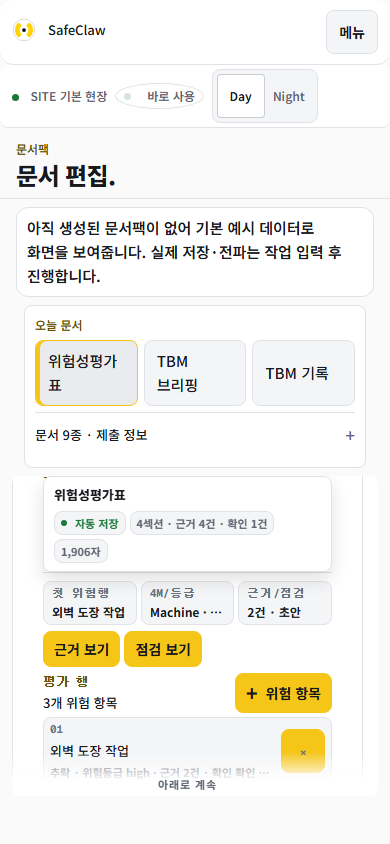
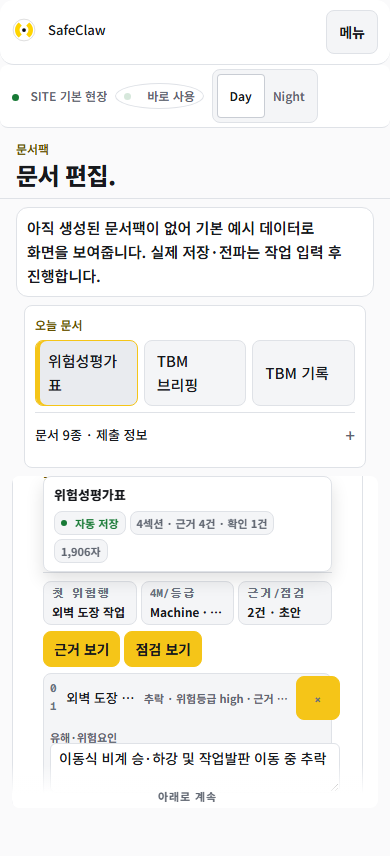
chore: refresh documents long-form ia evidence

diff --git a/evaluation/documents-long-form-ia-2026-07-22/report.md b/evaluation/documents-long-form-ia-2026-07-22/report.md
@@ -1,10 +1,10 @@
 # Documents Long-Form IA Probe
 
-Checked at: 2026-07-22T04:17:06.883Z
+Checked at: 2026-07-22T04:46:59.934Z
 
-Base URL: `http://127.0.0.1:3057`
+Base URL: `http://127.0.0.1:3063`
 
-Source HEAD: `6d46cfaac718d2d0a4a38478f9dc361e7b62ed84`
+Source HEAD: `8eb4474aa2bb0c583cf9c204507198f8dad8b5a7`
 
 Production commit: `unknown`
 
@@ -34,13 +34,13 @@ Allowed claim: selected risk-assessment cockpit and first field/action surfaces 
 | default overview/cockpit | desktop-1440x900 | RED | RED | RED | n/a | RED | PASS | 2.45 | 871 | 1128 | 1461 | 0 | false | 1651 | false | 0 |
 | same-document riskAssessmentDraft reselect landing | desktop-1440x900 | RED | RED | RED | RED | RED | PASS | 2.45 | 871 | 1128 | 1461 | 0 | false | 1651 | false | 0 |
 | all 12 document launcher exposure | desktop-1440x900 | PASS | n/a | n/a | n/a | RED | PASS | 2.45 | 833 | 1090 | 1423 | 0 | true | 1651 | false | 0 |
-| default overview/cockpit | mobile-390x844 | PARTIAL | PASS | RED | n/a | RED | PASS | 1 | 667 | 855 | 1092 | 0 | false | 1494 | false | 0 |
-| same-document riskAssessmentDraft reselect landing | mobile-390x844 | PARTIAL | PASS | RED | PASS | RED | PASS | 1 | 667 | 855 | 1092 | 0 | false | 1494 | false | 0 |
-| all 12 document launcher exposure | mobile-390x844 | RED | n/a | n/a | n/a | RED | PASS | 1 | 1028 | 1216 | 1453 | 0 | true | 1494 | false | 0 |
+| default overview/cockpit | mobile-390x844 | PARTIAL | PASS | PASS | n/a | RED | PASS | 1.01 | 667 | 793 | 1033 | 0 | false | 1435 | false | 0 |
+| same-document riskAssessmentDraft reselect landing | mobile-390x844 | PARTIAL | PASS | PASS | PASS | RED | PASS | 1.01 | 667 | 793 | 1033 | 0 | false | 1435 | false | 0 |
+| all 12 document launcher exposure | mobile-390x844 | RED | n/a | n/a | n/a | RED | PASS | 1.01 | 1028 | 1154 | 1394 | 0 | true | 1435 | false | 0 |
 
 ## Remaining UX Boundary
 
-- Product commit `6d46cfaa` is a scoped landing remediation: desktop-short same-document risk reselect now records first action, field-first, and reselect landing PASS. It does not close mobile full field-first visibility, desktop 1440x900 reselect, or all-12 document containment.
+- Product commit `8eb4474a` is a scoped risk-assessment cockpit remediation: desktop-short and mobile same-document risk reselect now record first action, field-first, and reselect landing PASS when the table above shows PASS. It does not close desktop 1440x900 layout behavior or all-12 document containment.
 - If `allDocumentLongFormVerdict` is RED or PARTIAL, product work should stay bounded to the documents route/component shell: master-detail, selected-only detail, accordion, local scroll, or drawer.
 - Supporting document launcher visibility is not itself the launch fix. Default closed supporting nav is acceptable, but the all-12 exposure state remains a follow-up when it still behaves like a long serial document surface rather than bounded navigation.
 - Do not use page count as the fix. Route split only helps orientation; long bodies must be locally contained.
